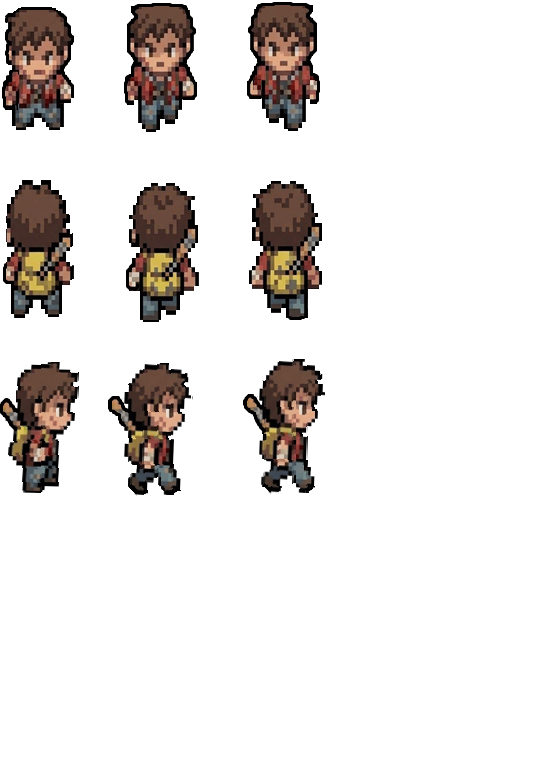
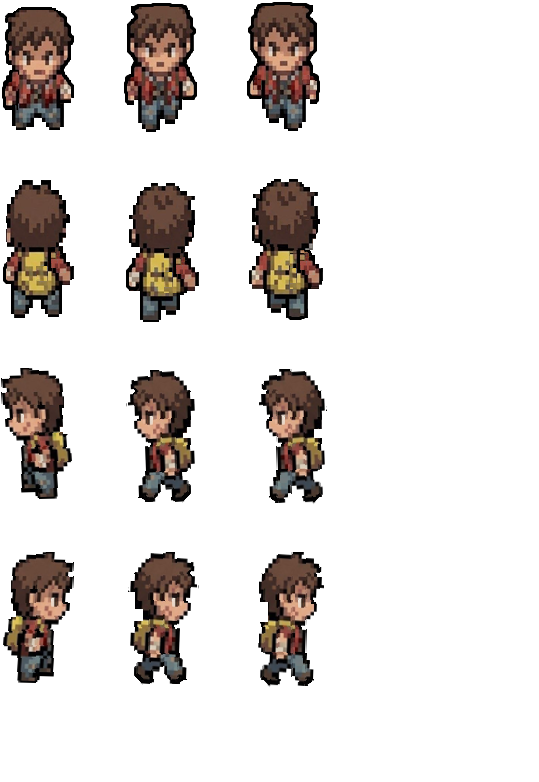
переделал модельку с зомби и механику анимации

diff --git a/zombie.cpp b/zombie.cpp
@@ -5,7 +5,9 @@
 sf::Texture Zombie::sharedTexture;
 sf::Image Zombie::sharedTextureImage;
 bool Zombie::textureReady = false;
-
+void Zombie::setPosition(const sf::Vector2f& pos) {
+    sprite.setPosition(pos);
+}
 Zombie::Zombie(const sf::Vector2f& startPosition)
     : sprite(sharedTexture)
     , currentFrame(0)
@@ -22,37 +24,44 @@ Zombie::Zombie(const sf::Vector2f& startPosition)
         textureReady = sharedTexture.loadFromFile("assets/zombie.png");
         if (textureReady) {
             sharedTextureImage = sharedTexture.copyToImage();
+
         }
     }
 
     rightRowOffsets = std::vector<int>(framesPerRow, 0);
 
     sprite.setTexture(sharedTexture);
+
     sprite.setTextureRect(sf::IntRect({ 0, 0 }, frameSize));
     sprite.setOrigin({ frameSize.x * 0.5f, frameSize.y * 0.5f });
     sprite.setPosition(startPosition);
 }
 
-void Zombie::update(float dt, const sf::Vector2f& targetPosition) {
-    if (!isValid()) {
+void Zombie::update(float dt, const sf::Vector2f& targetPosition)
+{
+    if (!isValid())
         return;
-    }
 
     sf::Vector2f delta = targetPosition - sprite.getPosition();
-    const float length = std::sqrt(delta.x * delta.x + delta.y * delta.y);
+    float length = std::sqrt(delta.x * delta.x + delta.y * delta.y);
 
     isMoving = false;
-    if (length < 0.001f) {
+
+    if (length < 0.001f)
+    {
         currentFrame = 0;
         animationTimer = 0.f;
     }
-    else {
+    else
+    {
         isMoving = true;
 
-        if (std::fabs(delta.x) > std::fabs(delta.y)) {
+        if (std::fabs(delta.x) > std::fabs(delta.y))
+        {
             direction = (delta.x < 0.f) ? Left : Right;
         }
-        else {
+        else
+        {
             direction = (delta.y < 0.f) ? Up : Down;
         }
 
@@ -60,44 +69,45 @@ void Zombie::update(float dt, const sf::Vector2f& targetPosition) {
         sprite.move(delta * speed * dt);
     }
 
-    if (direction == Left) {
-        sprite.setScale({ -1.f, 1.f });
-    }
-    else {
-        sprite.setScale({ 1.f, 1.f });
-    }
-
-    if (isMoving) {
+    if (isMoving)
+    {
         animationTimer += dt;
-        if (animationTimer >= animationSpeed) {
+
+        if (animationTimer >= animationSpeed)
+        {
             animationTimer = 0.f;
             currentFrame++;
-            if (currentFrame >= framesPerRow) {
+
+            if (currentFrame >= framesPerRow)
                 currentFrame = 0;
-            }
         }
     }
-    else {
+    else
+    {
         currentFrame = 0;
     }
 
     int row = 0;
-    switch (direction) {
-    case Down: row = 0; break;
-    case Up: row = 1; break;
-    case Left: row = 2; break;
-    case Right: row = 2; break;
+
+    switch (direction)
+    {
+    case Down:  row = 0; break;
+    case Up:    row = 1; break;
+    case Left:  row = 2; break;
+    case Right: row = 3; break;
     }
 
     int top = row * (frameSize.y + frameSpacing.y);
-    if (direction == Right && currentFrame >= 0 && currentFrame < static_cast<int>(rightRowOffsets.size())) {
-        top += rightRowOffsets[currentFrame];
-    }
 
-    sprite.setTextureRect(sf::IntRect(
-        { currentFrame * (frameSize.x + frameSpacing.x), top },
+    sf::IntRect rect(
+        sf::Vector2i(
+            currentFrame * (frameSize.x + frameSpacing.x),
+            top
+        ),
         frameSize
-    ));
+    );
+
+    sprite.setTextureRect(rect);
 }
 
 void Zombie::draw(sf::RenderWindow& window) const {

diff --git a/player.cpp b/player.cpp
@@ -15,13 +15,16 @@ Player::Player()
     , framesPerRow(3)
     , direction(Down)
 {
+
     if (!texture.loadFromFile("assets/player.png")) {
     }
     textureImage = texture.copyToImage();
 
+
     rightRowOffsets = std::vector<int>(framesPerRow, 0);
 
     sprite.setTexture(texture);
+        
     sprite.setTextureRect(IntRect({ 0, 0 }, frameSize));
     sprite.setOrigin(sf::Vector2f(frameSize.x / 2.f, frameSize.y / 2.f));
     const sf::VideoMode desktop = sf::VideoMode::getDesktopMode();
@@ -31,83 +34,86 @@ Player::Player()
     });
 }
 
-void Player::handleInput(float dt) {
-    Vector2f movement(0.f, 0.f);
+void Player::handleInput(float dt)
+{
+    sf::Vector2f movement(0.f, 0.f);
     isMoving = false;
 
-    if (Keyboard::isKeyPressed(Keyboard::Key::W)) {
+    if (sf::Keyboard::isKeyPressed(sf::Keyboard::Key::W))
+    {
         movement.y -= speed * dt;
         direction = Up;
         isMoving = true;
     }
 
-    if (Keyboard::isKeyPressed(Keyboard::Key::S)) {
+    if (sf::Keyboard::isKeyPressed(sf::Keyboard::Key::S))
+    {
         movement.y += speed * dt;
         direction = Down;
         isMoving = true;
     }
 
-    if (Keyboard::isKeyPressed(Keyboard::Key::A)) {
+    if (sf::Keyboard::isKeyPressed(sf::Keyboard::Key::A))
+    {
         movement.x -= speed * dt;
         direction = Left;
         isMoving = true;
-        sprite.setScale({ -1.f, 1.f });
     }
 
-    if (Keyboard::isKeyPressed(Keyboard::Key::D)) {
+    if (sf::Keyboard::isKeyPressed(sf::Keyboard::Key::D))
+    {
         movement.x += speed * dt;
         direction = Right;
         isMoving = true;
-        sprite.setScale({ 1.f, 1.f });
     }
 
     sprite.move(movement);
 }
 
-void Player::update(float dt) {
-    if (isMoving) {
+void Player::update(float dt)
+{
+    if (isMoving)
+    {
         animationTimer += dt;
 
-        if (animationTimer >= animationSpeed) {
+        if (animationTimer >= animationSpeed)
+        {
             animationTimer = 0.f;
             currentFrame++;
 
-            int maxFrames = 3;
-            if (currentFrame >= maxFrames)
+            if (currentFrame >= framesPerRow)
                 currentFrame = 0;
         }
     }
-    else {
+    else
+    {
         animationTimer = 0.f;
         currentFrame = 0;
     }
 
     int row = 0;
 
-    switch (direction) {
-    case Down: row = 0; break;
-    case Up: row = 1; break;
-    case Left: row = 2; break;
-    case Right: row = 2; break;
+    switch (direction)
+    {
+    case Down:  row = 0; break;
+    case Up:    row = 1; break;
+    case Left:  row = 2; break;
+    case Right: row = 3; break;
     }
 
     int top = row * (frameSize.y + frameSpacing.y);
 
-    if (direction == Right) {
-        int offset = 0;
-        if (currentFrame >= 0 && currentFrame < (int)rightRowOffsets.size())
-            offset = rightRowOffsets[currentFrame];
-
-        top += offset;
-    }
-
-    sprite.setTextureRect(IntRect(
-        { currentFrame * (frameSize.x + frameSpacing.x), top },
+    sf::IntRect rect(
+        sf::Vector2i(
+            currentFrame * (frameSize.x + frameSpacing.x),
+            top
+        ),
         frameSize
-    ));
-}
+    );
 
-void Player::draw(sf::RenderWindow& window) {
+    sprite.setTextureRect(rect);
+}
+void Player::draw(sf::RenderWindow& window){
     window.draw(sprite);
 }
 sf::Vector2f Player::getPosition() const {

diff --git a/game.cpp b/game.cpp
@@ -227,6 +227,7 @@ void Game::updateZombies(float dt) {
     for (Zombie& zombie : zombies) {
         zombie.update(dt, playerPos);
     }
+    resolveZombieCollisions();
 }
 
 void Game::spawnZombie() {
@@ -354,6 +355,42 @@ bool Game::pushPlayerOutOfZombies() {
     }
 
     return collided;
+}
+void Game::resolveZombieCollisions() {
+    for (size_t i = 0; i < zombies.size(); ++i) {
+        for (size_t j = i + 1; j < zombies.size(); ++j) {
+
+            sf::FloatRect aBounds = zombies[i].getBounds();
+            sf::FloatRect bBounds = zombies[j].getBounds();
+
+            if (!intersectsRect(aBounds, bBounds)) {
+                continue;
+            }
+
+            sf::Vector2f aCenter = rectCenter(aBounds);
+            sf::Vector2f bCenter = rectCenter(bBounds);
+
+            sf::Vector2f delta = aCenter - bCenter;
+
+            float distance = std::sqrt(delta.x * delta.x + delta.y * delta.y);
+            if (distance < 0.001f) {
+                delta = { 1.f, 0.f };
+                distance = 1.f;
+            }
+
+            delta /= distance;
+
+            float overlapX = (rectWidth(aBounds) * 0.5f + rectWidth(bBounds) * 0.5f) - std::fabs(aCenter.x - bCenter.x);
+            float overlapY = (rectHeight(aBounds) * 0.5f + rectHeight(bBounds) * 0.5f) - std::fabs(aCenter.y - bCenter.y);
+
+            float push = std::min(overlapX, overlapY) * 0.5f;
+
+            sf::Vector2f correction = delta * push;
+
+            zombies[i].setPosition(zombies[i].getPosition() + correction);
+            zombies[j].setPosition(zombies[j].getPosition() - correction);
+        }
+    }
 }
 
 void Game::render() {

diff --git a/zombie.hpp b/zombie.hpp
@@ -6,12 +6,12 @@
 class Zombie {
 public:
     Zombie(const sf::Vector2f& startPosition);
-
+    void setPosition(const sf::Vector2f& pos);
     void update(float dt, const sf::Vector2f& targetPosition);
     void draw(sf::RenderWindow& window) const;
     bool isValid() const;
     sf::Vector2f getPosition() const;
-    sf::FloatRect getBounds() const;
+    sf::FloatRect getBounds() const;    
 
 private:
     static sf::Texture sharedTexture;

diff --git a/player.hpp b/player.hpp
@@ -6,7 +6,6 @@
 class Player {
 public:
     Player();
-
     void handleInput(float dt);
     void update(float dt);
     void draw(sf::RenderWindow& window);
@@ -25,7 +24,6 @@ private:
 
     float speed;
     bool isMoving;
-
     sf::Vector2i frameSize;
     sf::Vector2i frameSpacing;
 

diff --git a/game.hpp b/game.hpp
@@ -24,6 +24,7 @@ private:
     bool isPlayerCollidingWithAnyZombie() const;
     bool pushPlayerOutOfZombies();
     bool isGameOver;
+    void resolveZombieCollisions();
 
     sf::RenderWindow window;
     sf::Clock clock;
